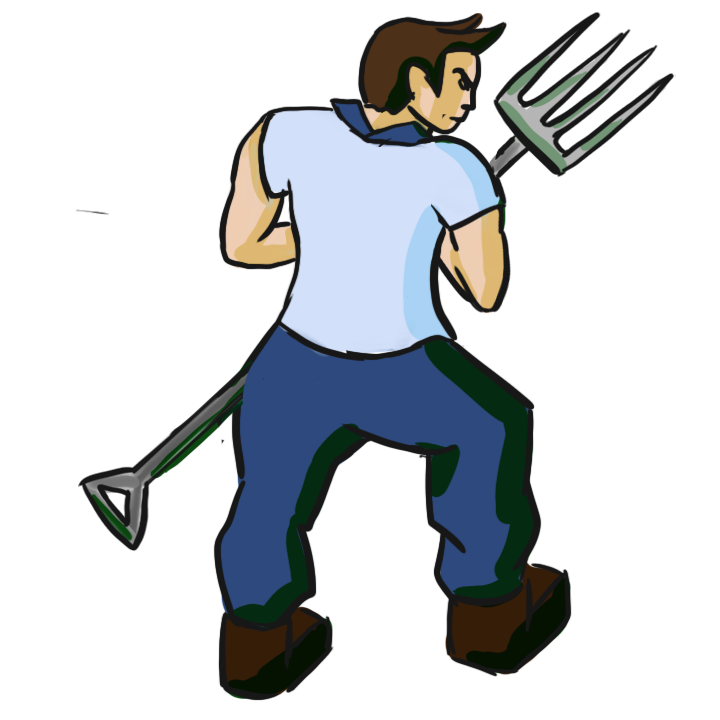
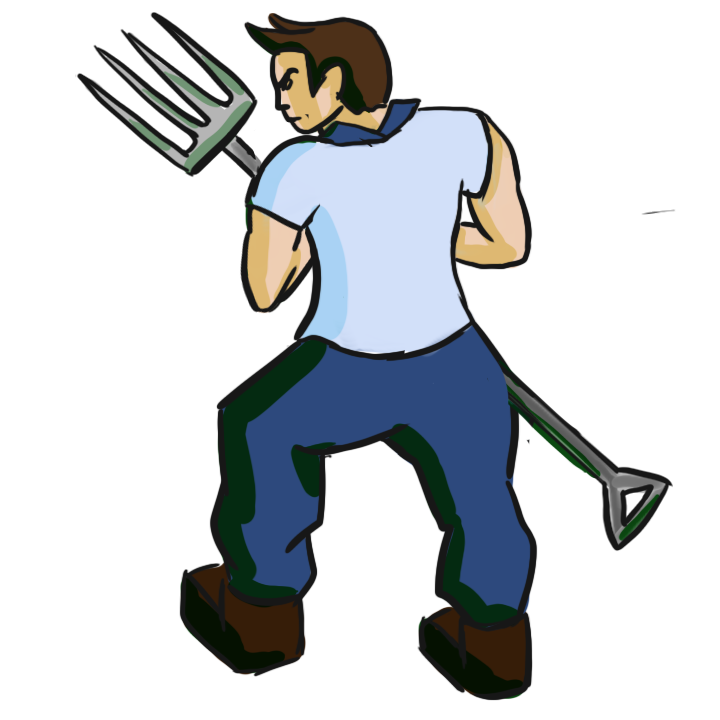
QoL Improvements
- When units die, their Death Sprites are displayed instead of them disappearing.

- Trees now render on top of units, not the other way around.

- The highlight tile turns red when the SelectionState is set to Target, and white when set to Movement.

- Vampire and Werewolf update their sprite to face the cursor during their turns. This helps onboard to the player which character they are currently controlling.

- To make Initiative more random and interesting, Initiative is now determined by a random 1D6 roll + the unit's Agility stacked on top at the start of combat.

- Pause Menu is now back in the scene

Changed region(s): [[0.0917, 0.0, 0.9472, 0.9778]]

diff --git a/Vampwolf/Assets/Scripts/Units/Werewolf.cs b/Vampwolf/Assets/Scripts/Units/Werewolf.cs
@@ -14,6 +14,7 @@ namespace Vampwolf.Units
             // Set that the werewolf has not moved or attacked
             hasMoved = false;
             hasCasted = false;
+            hasCurrentTurn = true;
 
             // Enable the grid selector
             EventBus<SetGridSelector>.Raise(new SetGridSelector()
@@ -25,7 +26,8 @@ namespace Vampwolf.Units
             EventBus<SetMovementSelectionMode>.Raise(new SetMovementSelectionMode()
             {
                 GridPosition = gridPosition,
-                Range = stats.MovementRange
+                Range = stats.MovementRange,
+                tileColor = 0
             });
 
             // Display the werewolf UI
@@ -62,12 +64,15 @@ namespace Vampwolf.Units
             EventBus<SetMovementSelectionMode>.Raise(new SetMovementSelectionMode()
             {
                 GridPosition = gridPosition,
-                Range = stats.MovementRange
+                Range = stats.MovementRange,
+                tileColor = 0
             });
         }
 
         public override async UniTask EndTurn()
         {
+            hasCurrentTurn = false;
+
             // Hide the end turn button
             EventBus<SetEndTurnButton>.Raise(new SetEndTurnButton()
             {
@@ -79,7 +84,7 @@ namespace Vampwolf.Units
 
             // Clear the highlights
             EventBus<ClearHighlights>.Raise(new ClearHighlights());
-
+            
             await UniTask.CompletedTask;
         }
 
@@ -91,7 +96,13 @@ namespace Vampwolf.Units
                 IsEnemy = false
             });
 
-            Destroy(this);
+            // Display unit death sprite
+            spriteRenderer.sprite = statData.deathSprite;
+        }
+
+        private void FixedUpdate()
+        {
+            if (hasCurrentTurn) UpdateCharacterSprite(UnityEngine.Camera.main.ScreenToWorldPoint(UnityEngine.InputSystem.Mouse.current.position.ReadValue()));
         }
     }
 }

diff --git a/Vampwolf/Assets/Scripts/Units/Vampire.cs b/Vampwolf/Assets/Scripts/Units/Vampire.cs
@@ -14,6 +14,7 @@ namespace Vampwolf.Units
             // Set that the werewolf has not moved or attacked
             hasMoved = false;
             hasCasted = false;
+            hasCurrentTurn = true;
 
             // Enable the grid selector
             EventBus<SetGridSelector>.Raise(new SetGridSelector()
@@ -25,7 +26,8 @@ namespace Vampwolf.Units
             EventBus<SetMovementSelectionMode>.Raise(new SetMovementSelectionMode()
             {
                 GridPosition = gridPosition,
-                Range = stats.MovementRange
+                Range = stats.MovementRange,
+                tileColor = 0
             });
 
             // Display the werewolf UI
@@ -62,12 +64,15 @@ namespace Vampwolf.Units
             EventBus<SetMovementSelectionMode>.Raise(new SetMovementSelectionMode()
             {
                 GridPosition = gridPosition,
-                Range = stats.MovementRange
+                Range = stats.MovementRange,
+                tileColor = 0
             });
         }
 
         public override async UniTask EndTurn()
         {
+            hasCurrentTurn = false;
+
             // Hide the end turn button
             EventBus<SetEndTurnButton>.Raise(new SetEndTurnButton()
             {
@@ -91,7 +96,13 @@ namespace Vampwolf.Units
                 IsEnemy = false
             });
 
-            Destroy(this);
+            // Display unit death sprite
+            spriteRenderer.sprite = statData.deathSprite;
+        }
+
+        private void FixedUpdate()
+        {
+            if (hasCurrentTurn) UpdateCharacterSprite(UnityEngine.Camera.main.ScreenToWorldPoint(UnityEngine.InputSystem.Mouse.current.position.ReadValue()));
         }
     }
 }

diff --git a/Vampwolf/Assets/Scripts/Units/BattleUnit.cs b/Vampwolf/Assets/Scripts/Units/BattleUnit.cs
@@ -19,6 +19,8 @@ namespace Vampwolf.Units
         [SerializeField] protected UnitStats stats;
         [SerializeField] protected bool hasMoved;
         [SerializeField] protected bool hasCasted;
+        protected bool hasCurrentTurn;
+        protected SpriteRenderer spriteRenderer;
 
         public string Name => unitName;
         public Vector3Int GridPosition => gridPosition;
@@ -35,6 +37,9 @@ namespace Vampwolf.Units
             // Set to no actions taken this turn
             hasMoved = false;
             hasCasted = false;
+
+            // Cache local SpriteRenderer component
+            spriteRenderer = GetComponent<SpriteRenderer>();
         }
 
         /// <summary>
@@ -103,5 +108,22 @@ namespace Vampwolf.Units
         /// Trigger behaviour on death
         /// </summary>
         protected abstract void OnDeath();
+
+        /// <summary>
+        /// Update unit's sprite to face cardinal directions dependent on circumstance
+        /// </summary>
+        protected void UpdateCharacterSprite(Vector3 targetPos)
+        {
+            // Calculate direction vector
+            Vector3 targetdir = (targetPos - this.transform.position).normalized;
+
+            // Set sprite to face either front or back
+            if (targetdir.y <= 0.2f) spriteRenderer.sprite = statData.frontFacingSprite;
+            else if (targetdir.y > 0.2f) spriteRenderer.sprite = statData.backFacingSprite;
+
+            // Set sprite to face either left or right
+            if (targetdir.x >= 0) transform.localScale = new Vector3(-1, 1, 1);
+            else if (targetdir.x < 0) transform.localScale = Vector3.one;
+        }
     }
 }

diff --git a/Vampwolf/Assets/Scripts/Grid/GridHighlighter.cs b/Vampwolf/Assets/Scripts/Grid/GridHighlighter.cs
@@ -68,12 +68,12 @@ namespace Vampwolf.Grid
         /// <summary>
         /// Highlight a list of cells
         /// </summary>
-        public void HighlightCells(List<Vector3Int> cellPositions)
+        public void HighlightCells(List<Vector3Int> cellPositions, int tileColor)
         {
             // Clear the previous highlights
             ClearHighlights();
 
-            // Itearte through each cell position
+            // Iterate through each cell position
             foreach(Vector3Int cellPosition in cellPositions)
             {
                 // Get the world position of the cell from the grid position
@@ -87,6 +87,8 @@ namespace Vampwolf.Grid
 
                 // Set the world position of the cell
                 highlight.transform.position = worldPos;
+
+                highlight.SetTileColor(tileColor);
 
                 // Add the highlight to the list of highlights
                 highlightedCells.Add(highlight);
@@ -116,13 +118,13 @@ namespace Vampwolf.Grid
         /// <summary>
         /// Callback function to highlight cells within the range of a given grid position
         /// </summary>
-        public void HighlightCellsInRange(Vector3Int gridPosition, int range)
+        public void HighlightCellsInRange(Vector3Int gridPosition, int range, int tileColor)
         {
             // Get the cell positions within range of the given grid position
             List<Vector3Int> cellPositions = gridManager.GetReachableCells(gridPosition, range);
 
             // Highlight the cells
-            HighlightCells(cellPositions);
+            HighlightCells(cellPositions, tileColor);
         }
     }
 }

diff --git a/Vampwolf/Assets/Scripts/Misc/PauseMenu.cs b/Vampwolf/Assets/Scripts/Misc/PauseMenu.cs
@@ -6,7 +6,7 @@ namespace Vampwolf
 {
     public class PauseMenu : MonoBehaviour
     {
-        public GameObject gamePanel;
+        //public GameObject gamePanel;
         public GameObject pausePanel;
         public GameObject optionsPanel;
         public GameObject controlsPanel;
@@ -17,7 +17,7 @@ namespace Vampwolf
         void Start()
         {
             //Make sure the game is the screen showing
-            gamePanel.SetActive(true);
+            //gamePanel.SetActive(true);
             pausePanel.SetActive(false);
             optionsPanel.SetActive(false);
             controlsPanel.SetActive(false);
@@ -47,7 +47,7 @@ namespace Vampwolf
         {
             isPaused = true;
             Time.timeScale = 0f; // Freeze the game
-            gamePanel.SetActive(false);
+            //gamePanel.SetActive(false);
             pausePanel.SetActive(true);
             optionsPanel.SetActive(false);
             controlsPanel.SetActive(false);
@@ -57,7 +57,7 @@ namespace Vampwolf
         {
             isPaused = false;
             Time.timeScale = 1f; // Unfreeze the game
-            gamePanel.SetActive(true);
+            //gamePanel.SetActive(true);
             pausePanel.SetActive(false);
             optionsPanel.SetActive(false);
             controlsPanel.SetActive(false);

diff --git a/Vampwolf/Assets/Scripts/Grid/GridSelector.cs b/Vampwolf/Assets/Scripts/Grid/GridSelector.cs
@@ -123,7 +123,7 @@ namespace Vampwolf.Grid
             currentSpell = null;
 
             // Highlight the cells in range
-            gridHighlighter.HighlightCellsInRange(eventData.GridPosition, eventData.Range);
+            gridHighlighter.HighlightCellsInRange(eventData.GridPosition, eventData.Range, eventData.tileColor);
         }
 
         /// <summary>
@@ -139,9 +139,9 @@ namespace Vampwolf.Grid
 
             // Set the selection state
             selectionState = SelectionMode.Target;
-
+            
             // Highlight the cells in range
-            gridHighlighter.HighlightCellsInRange(eventData.GridPosition, eventData.Spell.Range);
+            gridHighlighter.HighlightCellsInRange(eventData.GridPosition, eventData.Spell.Range, eventData.tileColor);
         }
 
         private void Select(bool started)

diff --git a/Vampwolf/Assets/Scripts/Grid/TileData.cs b/Vampwolf/Assets/Scripts/Grid/TileData.cs
@@ -5,6 +5,21 @@ namespace Vampwolf.Grid
     public class TileData : MonoBehaviour
     {
         [SerializeField] private Vector3Int gridPosition;
+        private Color moveColor = new Color(1f, 1f, 1f, 0.1f); // White
+        private Color targetColor = new Color(1f, 0f, 0f, 0.1f); // Red
+        private SpriteRenderer spriteRenderer;
         public Vector3Int GridPosition { get => gridPosition; set => gridPosition = value; }
+
+        private void Awake()
+        {
+            spriteRenderer = GetComponent<SpriteRenderer>();
+        }
+
+        public void SetTileColor(int color)
+        {
+            if (color == 0) spriteRenderer.color = moveColor; // Movement
+            if (color == 1) spriteRenderer.color = targetColor; // Attack
+        }
+
     }
 }

diff --git a/Vampwolf/Assets/Scripts/Spells/SpellsController.cs b/Vampwolf/Assets/Scripts/Spells/SpellsController.cs
@@ -101,7 +101,8 @@ namespace Vampwolf.Spells
             EventBus<SetSpellSelectionMode>.Raise(new SetSpellSelectionMode()
             {
                 Spell = model.VampireSpells[index],
-                GridPosition = castingUnit.GridPosition
+                GridPosition = castingUnit.GridPosition,
+                tileColor = 1
             });
         }
 
@@ -114,7 +115,8 @@ namespace Vampwolf.Spells
             EventBus<SetSpellSelectionMode>.Raise(new SetSpellSelectionMode()
             {
                 Spell = model.WerewolfSpells[index],
-                GridPosition = castingUnit.GridPosition
+                GridPosition = castingUnit.GridPosition,
+                tileColor = 1
             });
         }
 

diff --git a/Vampwolf/Assets/Scripts/Units/Enemy.cs b/Vampwolf/Assets/Scripts/Units/Enemy.cs
@@ -13,6 +13,7 @@ namespace Vampwolf.Units
 
         public override async UniTask EndTurn()
         {
+            hasCurrentTurn = false;
             await UniTask.CompletedTask;
         }
 
@@ -20,6 +21,7 @@ namespace Vampwolf.Units
         {
             hasMoved = false;
             hasCasted = false;
+            hasCurrentTurn = true;
 
             await UniTask.CompletedTask;
         }
@@ -34,7 +36,10 @@ namespace Vampwolf.Units
             });
 
             // Hide the unit
-            gameObject.SetActive(false);
+            //gameObject.SetActive(false);
+
+            // Display unit death sprite
+            spriteRenderer.sprite = statData.deathSprite;
         }
     }
 }

diff --git a/Vampwolf/Assets/Scripts/EventBus/Events/GridEvents.cs b/Vampwolf/Assets/Scripts/EventBus/Events/GridEvents.cs
@@ -23,12 +23,14 @@ namespace Vampwolf.Events
     {
         public Vector3Int GridPosition;
         public int Range;
+        public int tileColor;
     }
 
     public struct SetSpellSelectionMode : IEvent
     {
         public Spell Spell;
         public Vector3Int GridPosition;
+        public int tileColor;
     }
 
     public struct MoveCellSelected : IEvent

diff --git a/Vampwolf/Assets/Scripts/Units/UnitStatData.cs b/Vampwolf/Assets/Scripts/Units/UnitStatData.cs
@@ -17,5 +17,10 @@ namespace Vampwolf.Units
         [Header("Agility")]
         public int minMovementRange;
         public int maxMovementRange;
+
+        [Header("Sprites")]
+        public Sprite frontFacingSprite;
+        public Sprite backFacingSprite;
+        public Sprite deathSprite;
     }
 }

diff --git a/Vampwolf/Assets/Scripts/Units/UnitStats.cs b/Vampwolf/Assets/Scripts/Units/UnitStats.cs
@@ -21,7 +21,7 @@ namespace Vampwolf.Units
             }
         }
 
-        public int Initiative { get => Agility; }
+        public int Initiative { get => Agility + Random.Range(1, 7); } // Roll 1D6 + Agility for Initiative roll
 
         public UnitStats(UnitStatData data)
         {
